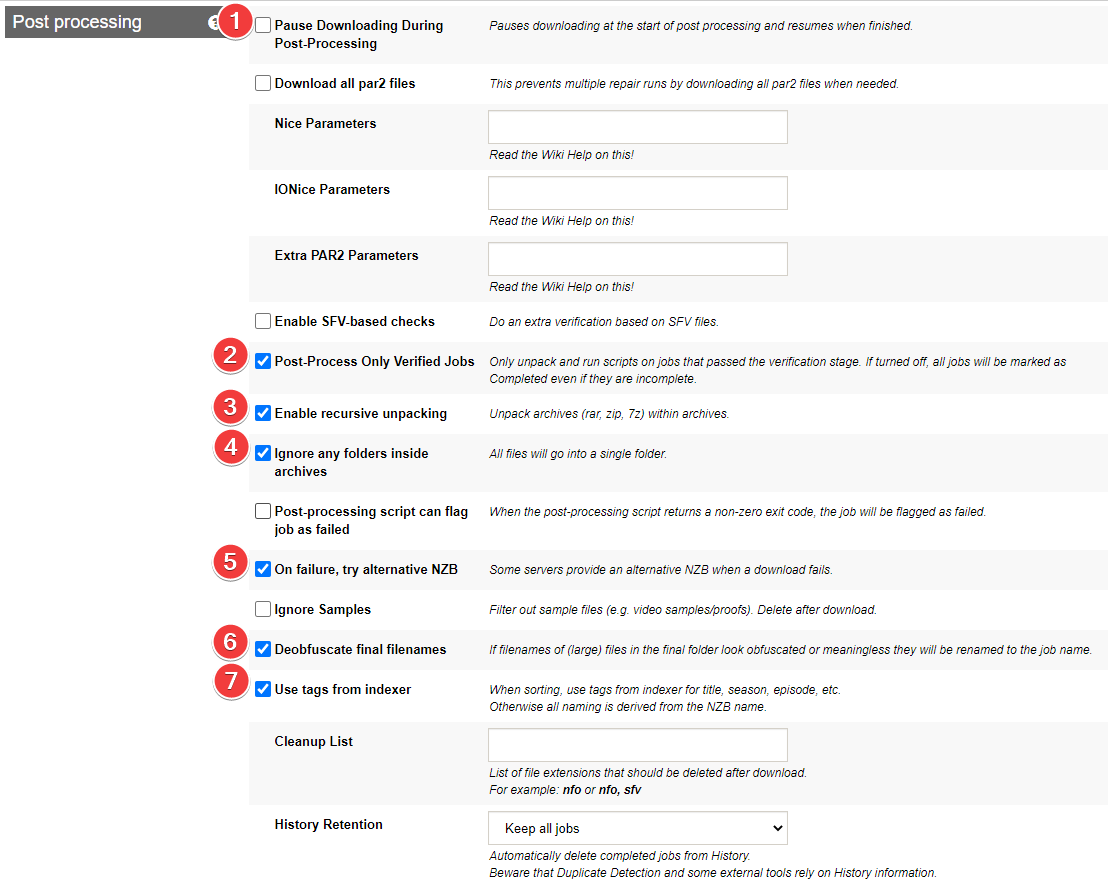
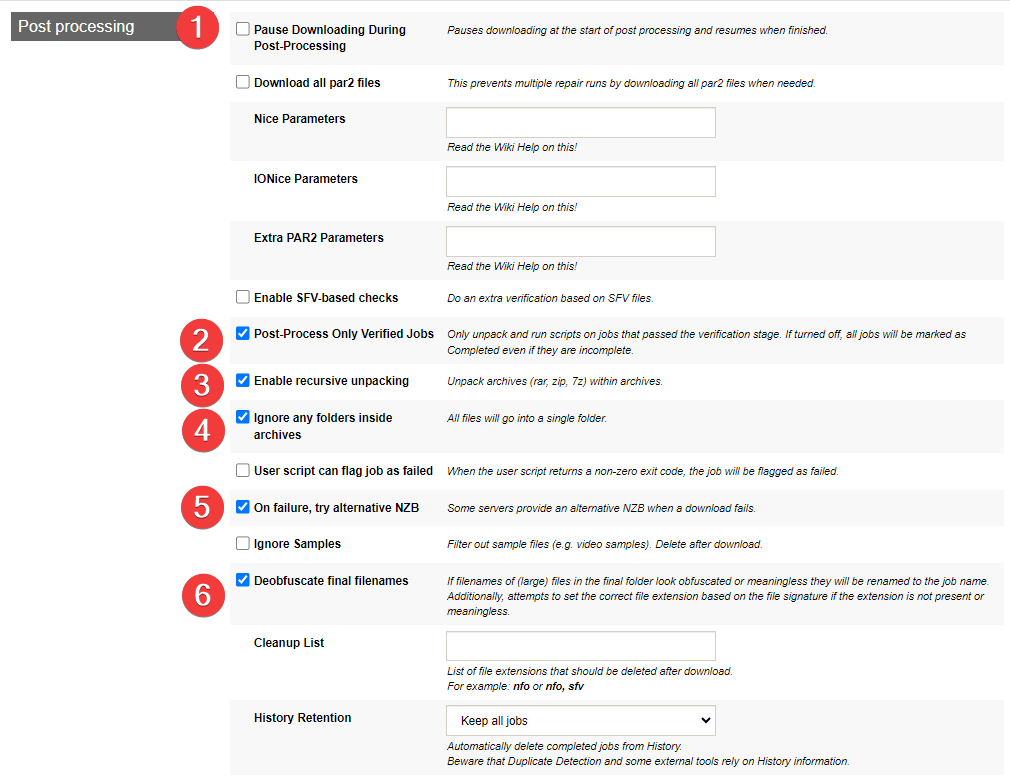
fix(sabnzbd) sabnzbd documentation updates (#1513)

diff --git a/docs/Downloaders/SABnzbd/Basic-Setup.md b/docs/Downloaders/SABnzbd/Basic-Setup.md
@@ -8,9 +8,11 @@
 !!! Note
     Settings that aren't covered means you can change them to your own liking or just leave them on default.
 
-    ** I also recommend to enable the `Advanced Settings` on the top right. **
+    **I also recommend to enable the `Advanced Settings` on the top right.**
 
 ## General
+
+[Sabnzbd Documentation](https://sabnzbd.org/wiki/configuration/4.0/general){:target="_blank" rel="noopener noreferrer"}
 
 ### Tuning
 
@@ -22,6 +24,8 @@ I recommend setting a sane maximum speed and then limiting below that, to keep y
 ------
 
 ## Folders
+
+[Sabnzbd Documentation](https://sabnzbd.org/wiki/configuration/4.0/folders){:target="_blank" rel="noopener noreferrer"}
 
 ### User Folders
 
@@ -44,6 +48,8 @@ I recommend the .nzb Backup Folder because sabnzbd doesn't have a hidden history
 
 ## Servers
 
+[Sabnzbd Documentation](https://sabnzbd.org/wiki/configuration/4.0/servers){:target="_blank" rel="noopener noreferrer"}
+
 `Settings` => `Servers` => `Add Server`
 ![!Servers](images/sabnzbd-servers.png)
 
@@ -64,6 +70,8 @@ I recommend the .nzb Backup Folder because sabnzbd doesn't have a hidden history
 
 ## Categories
 
+[Sabnzbd Documentation](https://sabnzbd.org/wiki/configuration/4.0/categories){:target="_blank" rel="noopener noreferrer"}
+
 `Settings`=> `Categories`
 
 Covered and fully explained in [SABnzbd - Paths and Categories](/Downloaders/SABnzbd/Paths-and-Categories/){:target="_blank" rel="noopener noreferrer"}
@@ -71,6 +79,8 @@ Covered and fully explained in [SABnzbd - Paths and Categories](/Downloaders/SAB
 ------
 
 ## Switches
+
+[Sabnzbd Documentation](https://sabnzbd.org/wiki/configuration/4.0/switches){:target="_blank" rel="noopener noreferrer"}
 
 ### Queue
 
@@ -93,8 +103,7 @@ Covered and fully explained in [SABnzbd - Paths and Categories](/Downloaders/SAB
 1. Unpack archives (rar, zip, 7z) within archives.
 1. This can help with subs that are in folders in the rar because sonarr/radarr don't look in sub-folders.
 1. Some servers provide an alternative NZB when a download fails. I have it enabled no guarantee that it works.
-1. Helps with de-obfuscation, but probably is handling the same case sonarr/radarr do okay with. Not sure how this one does, I have it enabled, but its also newish.
-1. When sorting, use tags from indexer for title, season, episode, etc. Otherwise all naming is derived from the NZB name.
+1. Helps with de-obfuscation especially invalid file extensions
 
 ------
 
@@ -106,8 +115,8 @@ Covered and fully explained in [SABnzbd - Paths and Categories](/Downloaders/SAB
 
 ## Special
 
-Rarely used options. For their meaning and explanation, click on the Help button to go to the Wiki page.
-Don't change these without checking the Wiki first, as some have serious side-effects.
+Rarely used options.
+Don't change these without checking the [SABnzbd Wiki](https://sabnzbd.org/wiki/configuration/4.0/special){:target="_blank" rel="noopener noreferrer"} first, as some have serious side-effects.
 The default values are between parentheses.
 
 ### Unable to connect to SABnzbd
